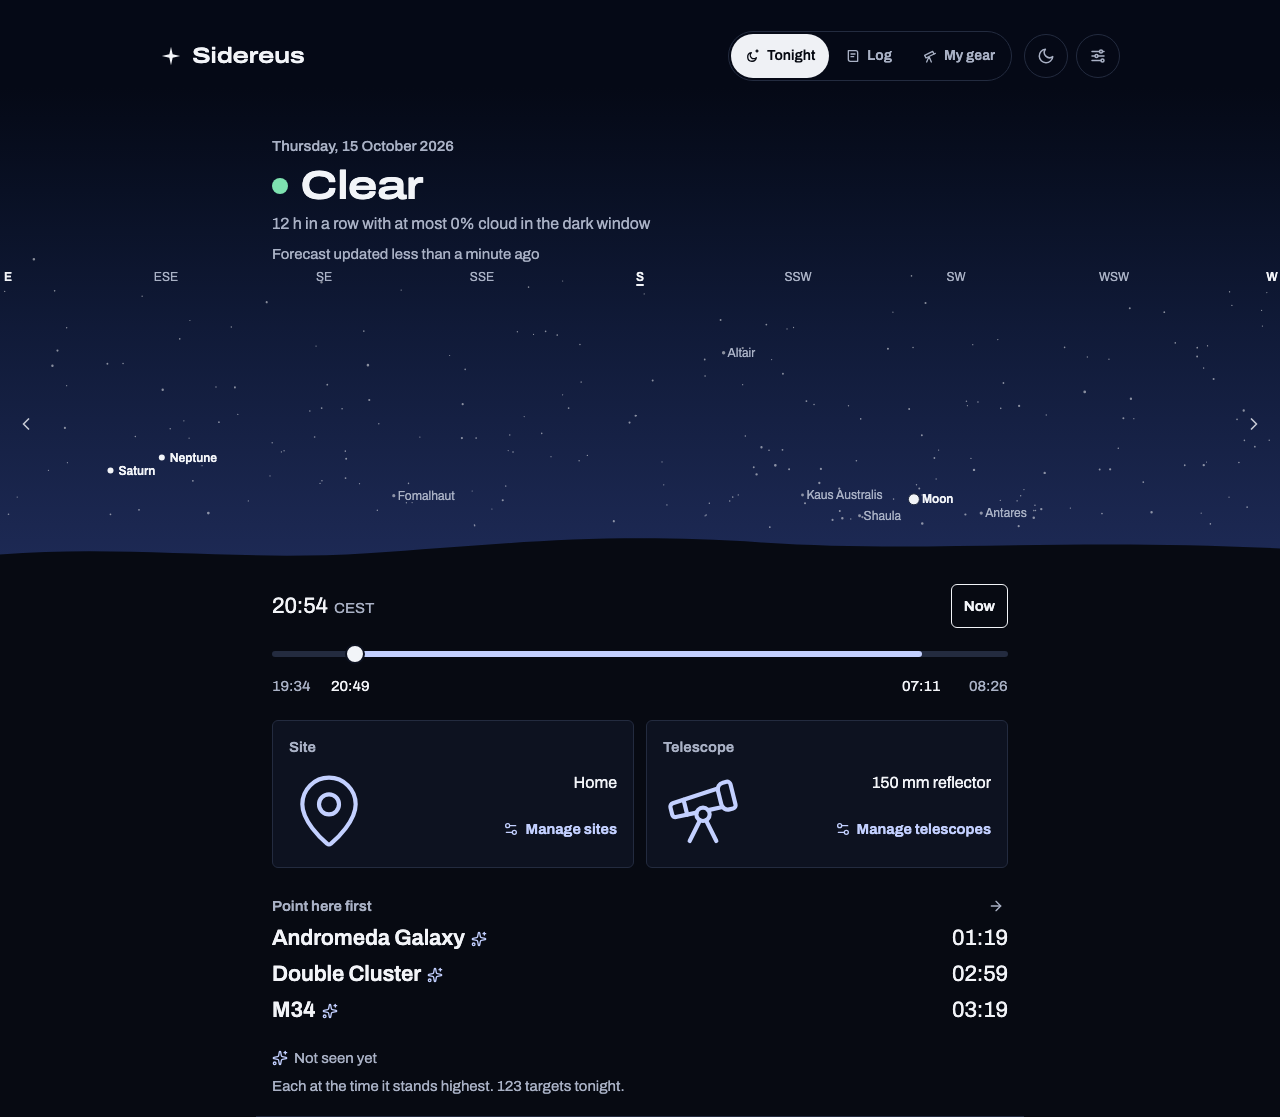
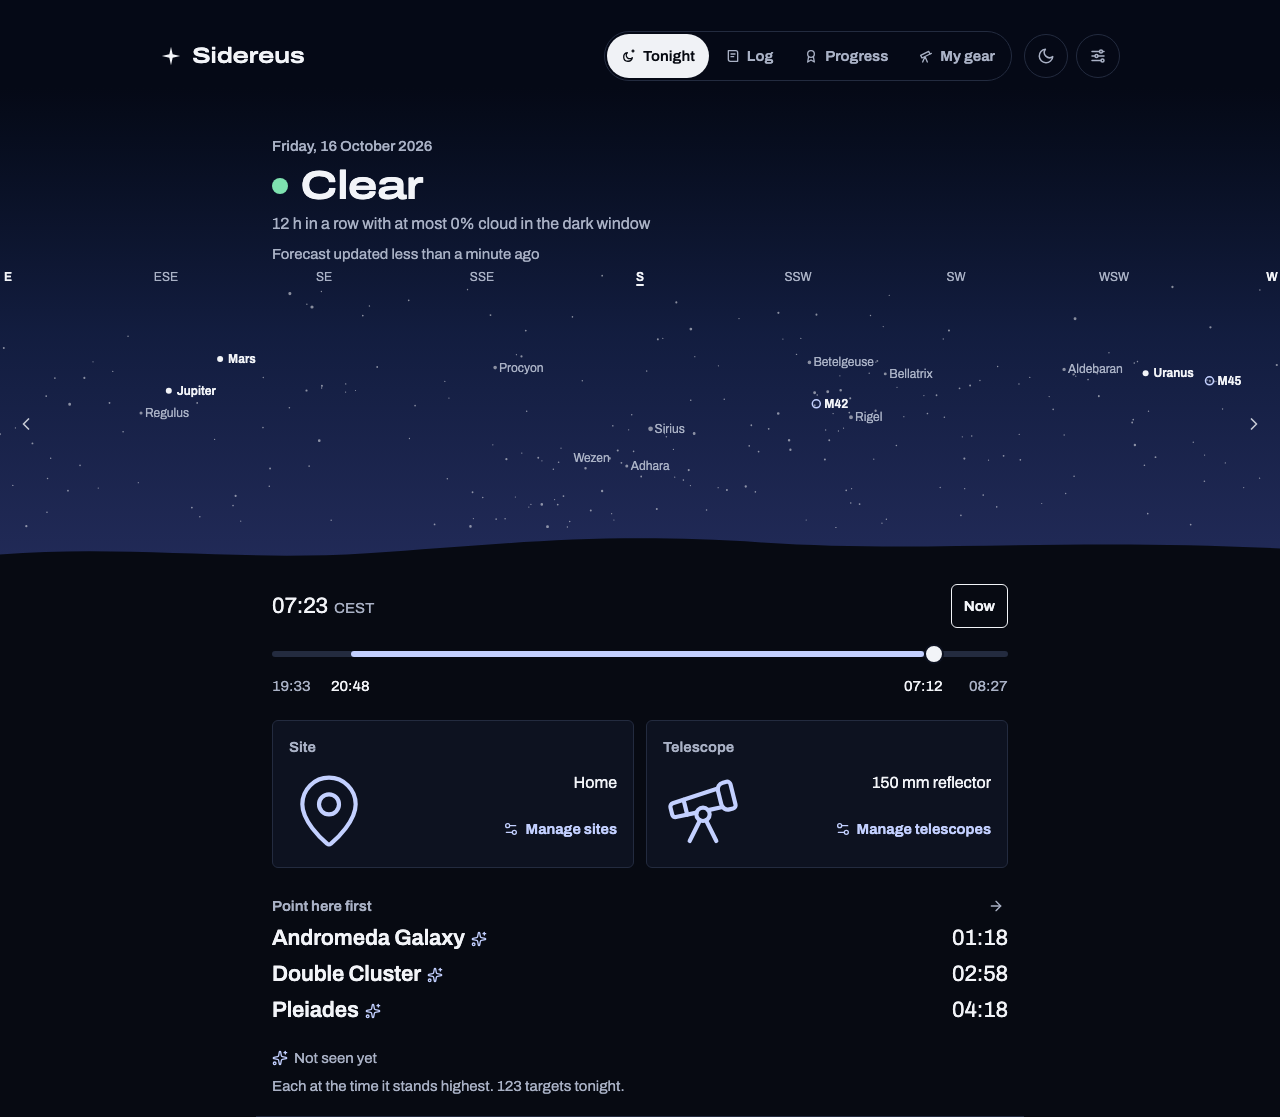
fix(star-source-switch): review F4 - re-capture the landing image on the Hipparcos data
public/landing/tonight.png was last captured on 2026-10-15 from the HYG-built
star file (and with the former three-item navigation). Re-captured with the
documented command; the capture spec parks the pointer first, so the first
tile no longer shows its hover state.

diff --git a/tests/e2e/landing-screenshot.spec.ts b/tests/e2e/landing-screenshot.spec.ts
@@ -79,6 +79,8 @@ test.describe("landing screenshot", () => {
     // The dashboard's tiles (tonight-dashboard): the screenshot is of /tonight, so wait for "Point here first".
     await expect(page.locator('[data-tonight-tiles] a[href="/tonight/targets"] li').first()).toBeVisible();
     await page.evaluate(() => document.fonts.ready);
+    // The onboarding click leaves the pointer over the first tile, which would draw its hover state.
+    await page.mouse.move(0, 0);
 
     await page.screenshot({ path: OUTPUT, clip: { x: 0, y: 0, ...VIEWPORT } });
   });
